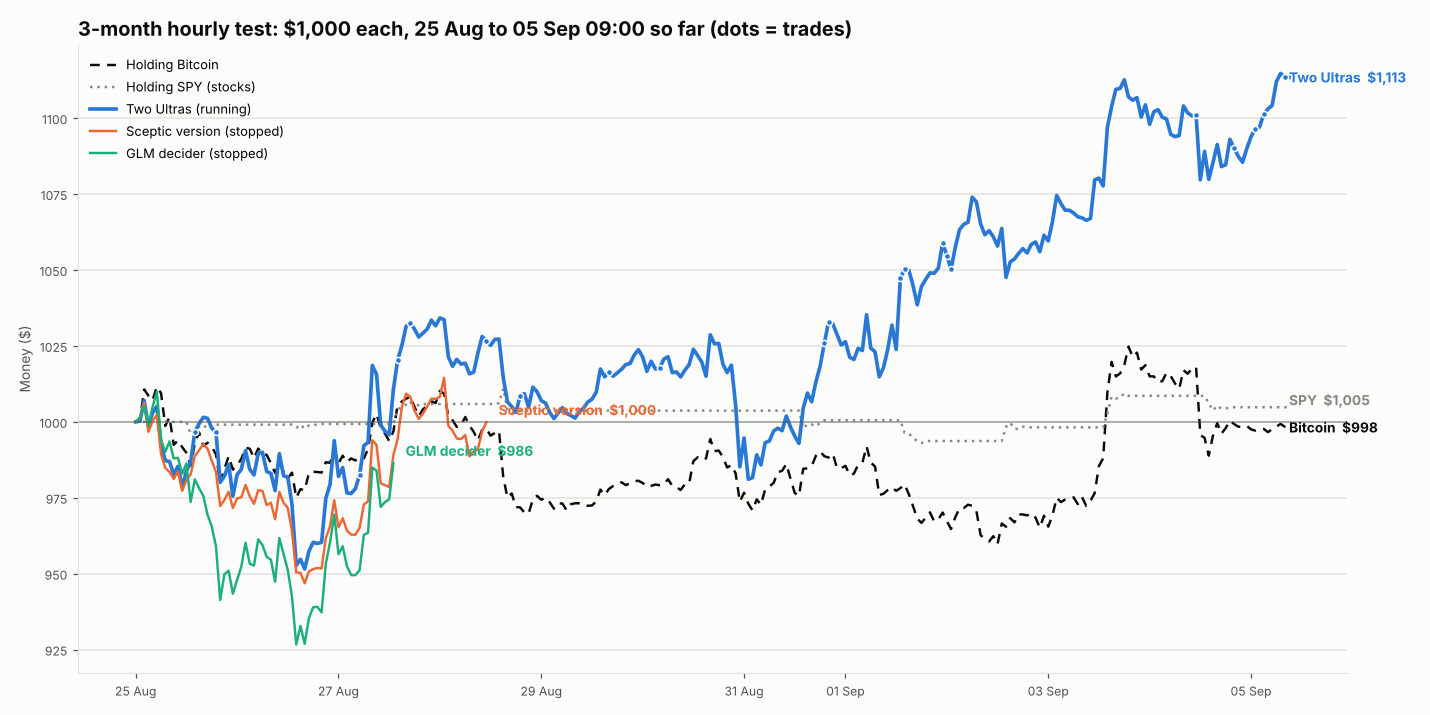
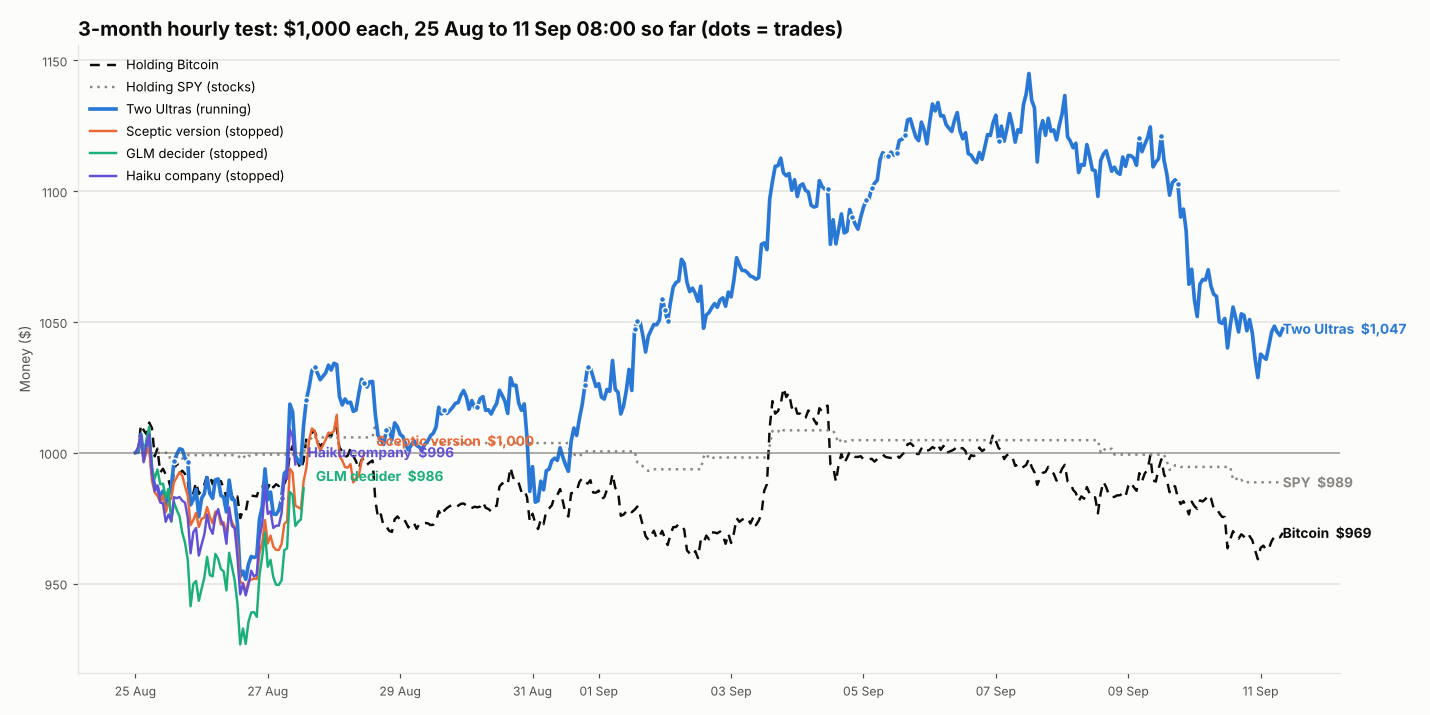
Hourly chart: add the Haiku company line
Claude-Session: https://claude.ai/code/session_01Q4zuW2hFjpzuH9a9JaFPqg

diff --git a/mixed/hourly_chart.py b/mixed/hourly_chart.py
@@ -15,11 +15,11 @@ plt.rcParams["text.parse_math"] = False
 HERE = os.path.dirname(os.path.abspath(__file__))
 INK, INK2, GRID, SURF = "#0b0b0b", "#52514e", "#e4e3df", "#fcfcfb"
 RUNS = [("hourly_3m_ultra", "Two Ultras (running)", "#2a78d6", 2.4), ("hourly_3m_skeptic", "Sceptic version (stopped)", "#eb6834", 1.6),
-        ("hourly_3m", "GLM decider (stopped)", "#1baf7a", 1.6)]
+        ("hourly_3m", "GLM decider (stopped)", "#1baf7a", 1.6), ("company:company_haiku", "Haiku company (stopped)", "#6250d6", 1.6)]
 
 
 def load(tag):
-    p = os.path.join(HERE, f"watcher_{tag}.csv")
+    p = os.path.join(HERE, f"company_{tag.split(':')[1]}_hours.csv" if tag.startswith("company:") else f"watcher_{tag}.csv")
     if not os.path.exists(p):
         return None
     rows = [r for r in csv.DictReader(open(p)) if r.get("value")]
